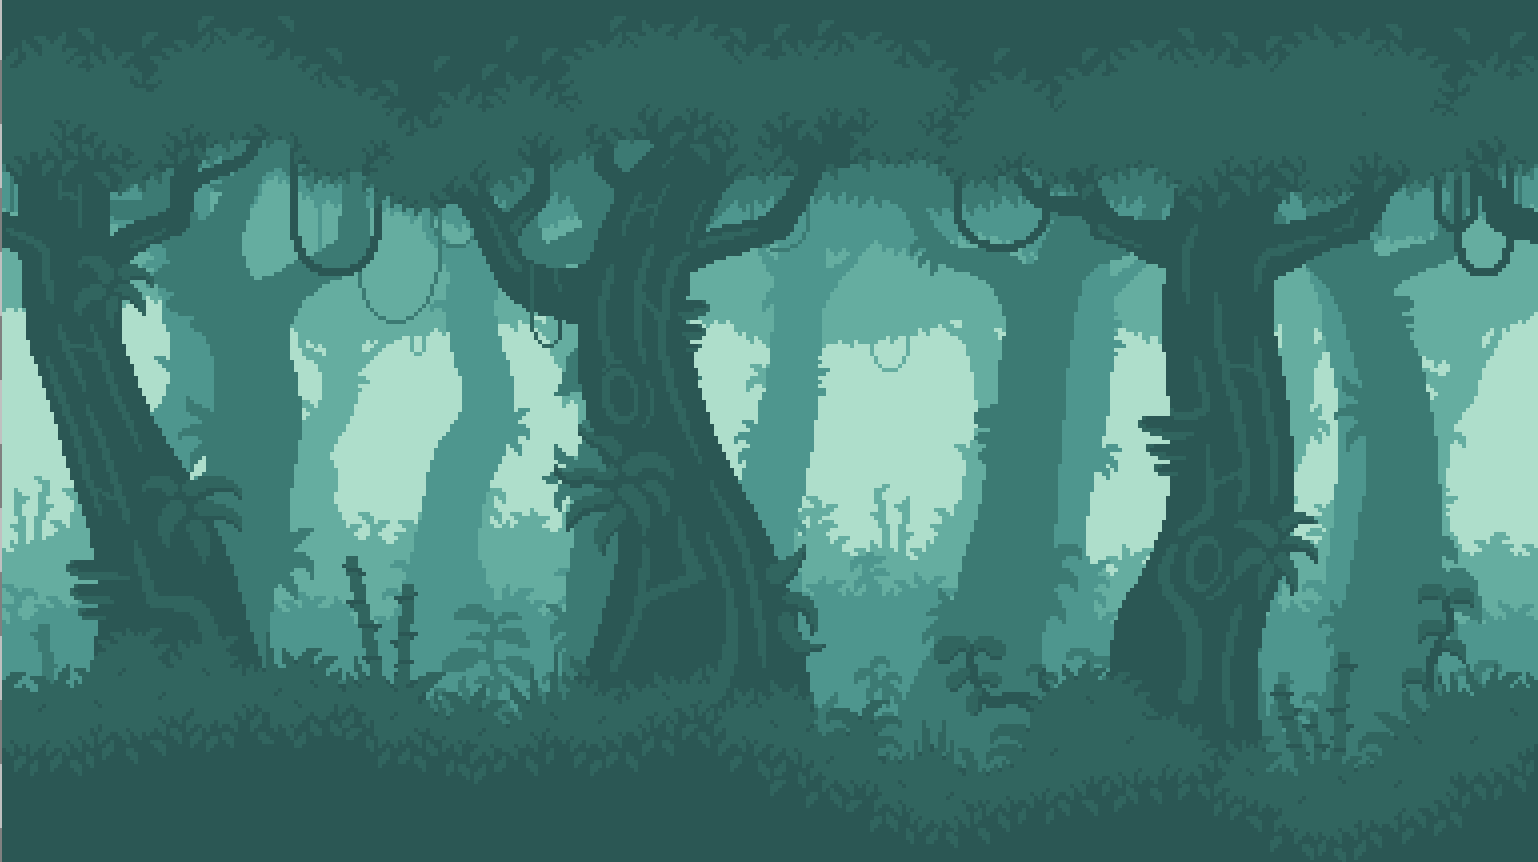
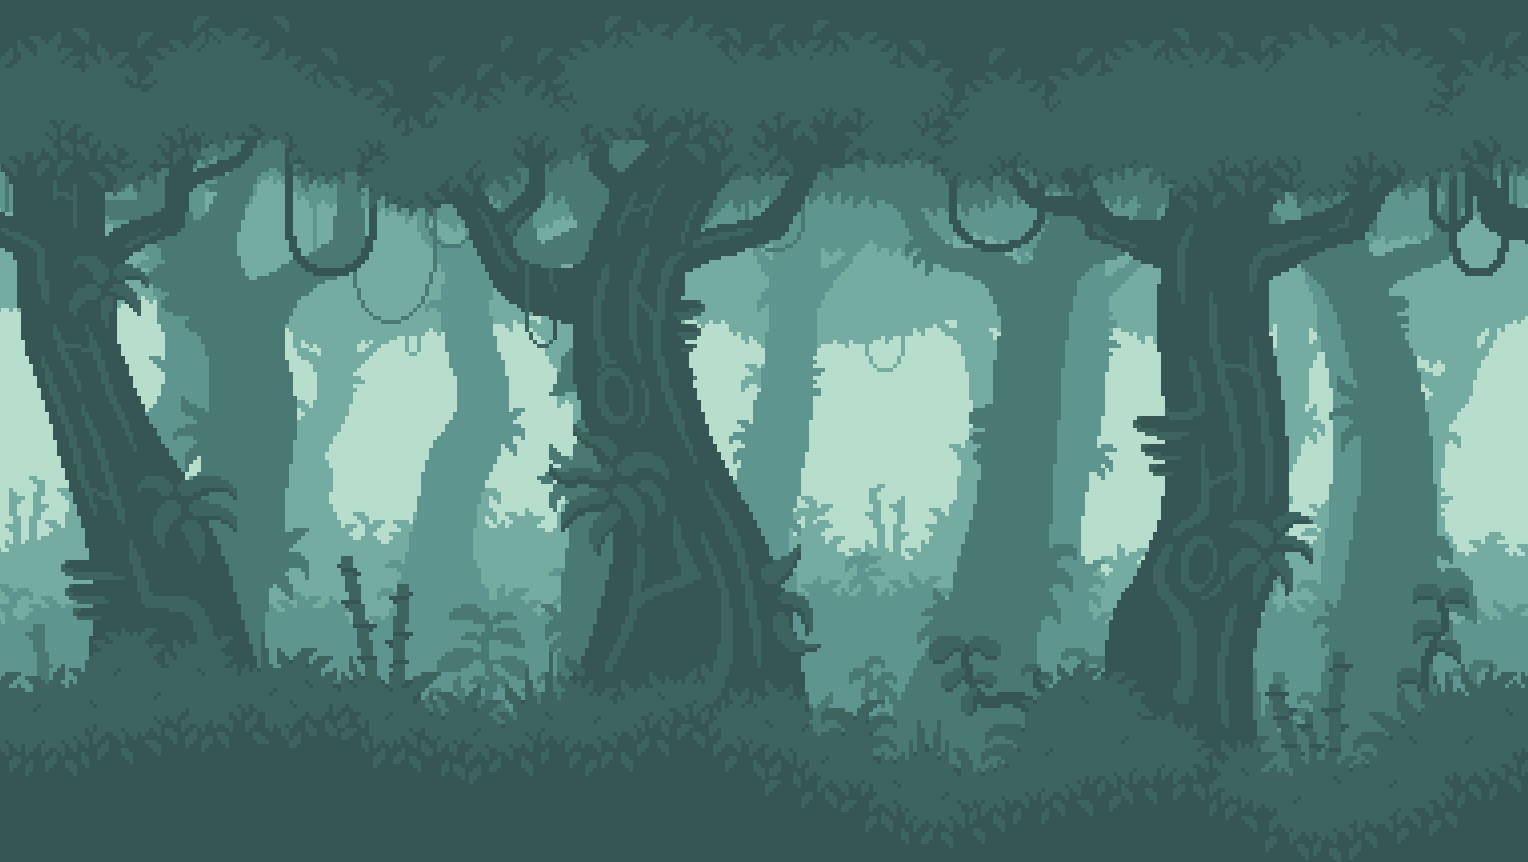
Fixed white lines in background

diff --git a/William's Minigames/style.css b/William's Minigames/style.css
@@ -50,7 +50,7 @@ a{
  text-align: center; 
 }
 
-.button{ /* Background to be changed  */
+.button{ 
 
     background-color: rgb(214, 233, 226);
     margin: auto;
@@ -135,7 +135,6 @@ a{
 /* ========================== BODY =====================*/  
 
 body{ 
-    
     background-image: url("Assets/Jungle.png"); 
     background-color: #6abe30;
     
